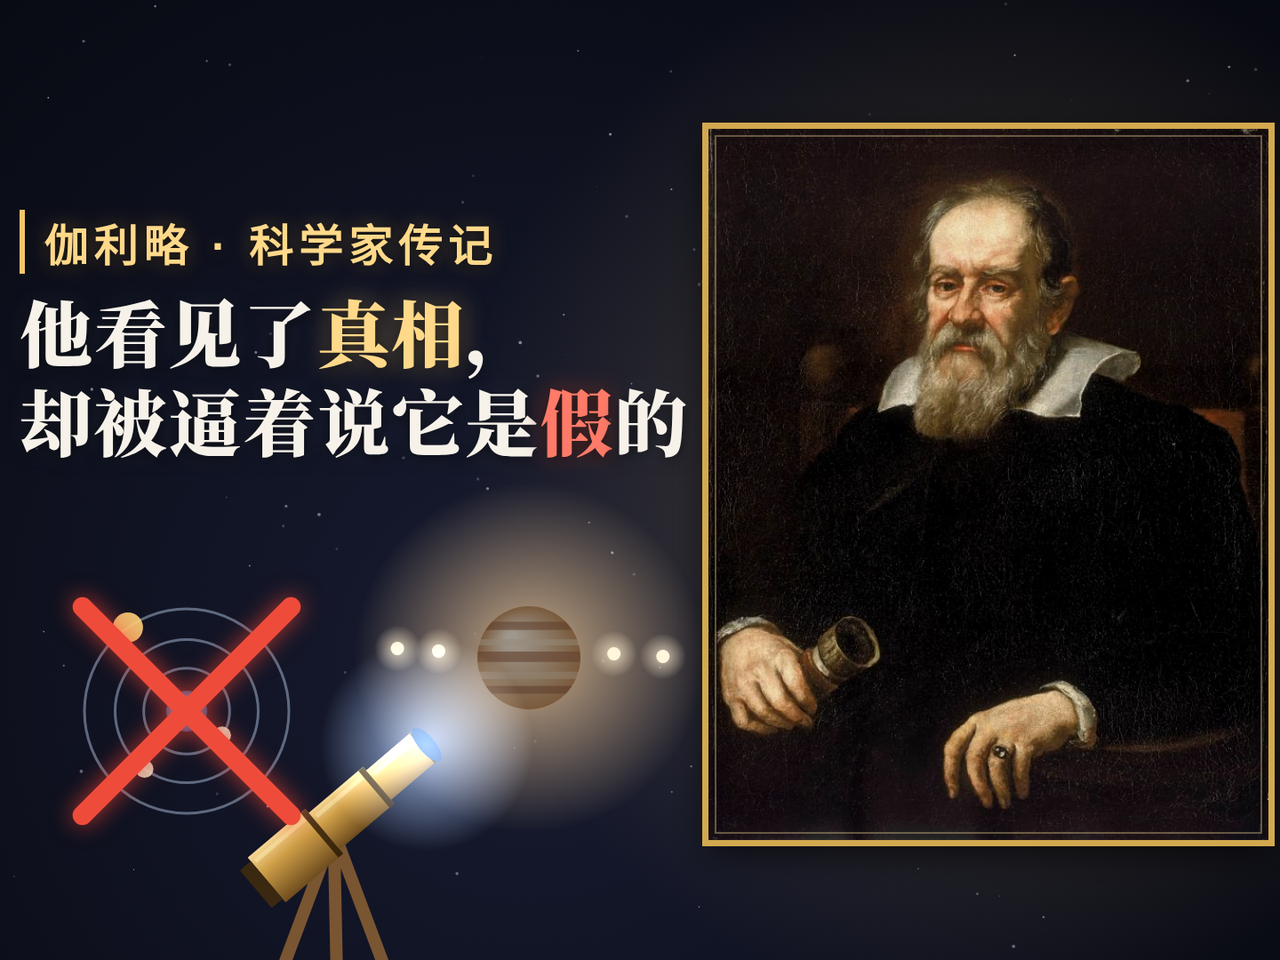
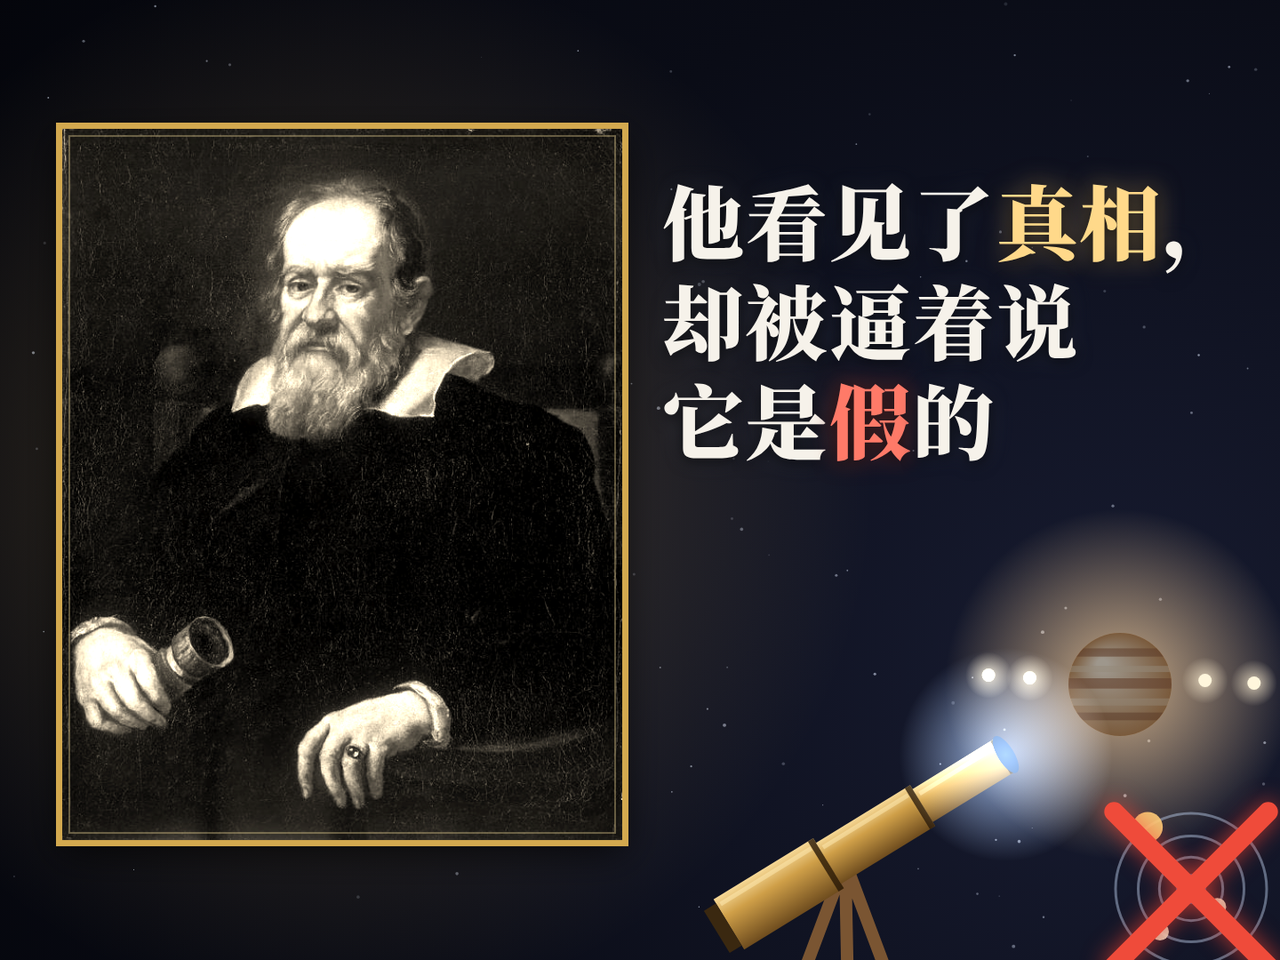
伽利略：新规矩重制（提亮、中文章节卡）、封面改为照片左字右并去标签；SOP 记录
Claude-Session: https://claude.ai/code/session_0132uwgTMMsd29jtkxBXZP3f

diff --git a/ws/kit/video-kit/cover/cover_gl.html b/ws/kit/video-kit/cover/cover_gl.html
@@ -11,31 +11,31 @@ canvas{position:absolute;left:0;top:0}
 .h i{font-style:normal;color:#ff7a68;text-shadow:0 3px 18px rgba(0,0,0,.8),0 0 26px rgba(255,100,80,.5)}
 .w .c{width:1920px;height:1080px}
 .w .kick{left:262px;top:236px}
-.w .h{left:262px;top:322px;font-size:82px}
+.w .h{left:985px;top:190px;font-size:92px}
+.v .br{display:none}
 .v .c{width:1080px;height:1440px}
 .v .kick{left:50%;transform:translateX(-50%);top:150px;white-space:nowrap}
-.v .h{left:0;right:0;top:250px;text-align:center;font-size:92px}
+.v .h{left:0;right:0;top:905px;text-align:center;font-size:92px}
 </style></head><body><div class="c">
 <canvas id="cv"></canvas>
-<div class="kick">伽利略 · 科学家传记</div>
-<div class="h">他看见了<b>真相</b>，<br>却被逼着说它是<i>假</i>的</div>
+<div class="h">他看见了<b>真相</b>，<span class="br"><br></span>却被逼着说<span class="br"><br></span>它是<i>假</i>的</div>
 </div>
 <script>
 var V = location.hash === '#dy'; document.body.className = V ? 'v' : 'w';
 var W = V ? 1080 : 1920, H = V ? 1440 : 1080, cv = document.getElementById('cv'); cv.width = W; cv.height = H;
 var g = cv.getContext('2d'), TAU = Math.PI * 2;
 function rng(s) { return function () { s |= 0; s = s + 0x6D2B79F5 | 0; var t = Math.imul(s ^ s >>> 15, 1 | s); t = t + Math.imul(t ^ t >>> 7, 61 | t) ^ t; return ((t ^ t >>> 14) >>> 0) / 4294967296; }; }
-var JX = V ? 190 : 835, JY = V ? 700 : 740, JR = V ? 54 : 58;                 // Jupiter
-var TX0 = V ? 120 : 540, TY0 = V ? 1330 : 990;                                // telescope eyepiece end
+var JX = V ? 880 : 1500, JY = V ? 1230 : 770, JR = V ? 54 : 58;                 // Jupiter
+var TX0 = V ? 360 : 1060, TY0 = V ? 1420 : 1040;                                // telescope eyepiece end
 // background
 var bg = g.createRadialGradient(JX, JY, 30, JX, JY, Math.max(W, H) * 0.85); bg.addColorStop(0, '#171b30'); bg.addColorStop(0.5, '#0a0c16'); bg.addColorStop(1, '#030409'); g.fillStyle = bg; g.fillRect(0, 0, W, H);
 var Rn = rng(7); for (var i = 0; i < 170; i++) { g.fillStyle = 'rgba(225,235,255,' + (0.12 + Rn() * 0.5).toFixed(2) + ')'; g.beginPath(); g.arc(Rn() * W, Rn() * H, 0.5 + Rn() * 1.5, 0, TAU); g.fill(); }
 var PIMG = new Image();
 function drawPortrait() {
-  var pw = V ? 640 : 630, ph = pw * PIMG.height / PIMG.width, px = V ? 680 : 1352, py = V ? 900 : 545, x0 = px - pw / 2, y0 = py - ph / 2;
+  var pw = V ? 640 : 630, ph = pw * PIMG.height / PIMG.width, px = V ? 540 : 625, py = V ? 457 : 545, x0 = px - pw / 2, y0 = py - ph / 2;
   var wg = g.createRadialGradient(px, py, 40, px, py, pw * 0.95); wg.addColorStop(0, 'rgba(242,198,107,0.22)'); wg.addColorStop(1, 'rgba(242,198,107,0)'); g.fillStyle = wg; g.fillRect(0, 0, W, H);
   g.save(); g.shadowColor = 'rgba(0,0,0,0.75)'; g.shadowBlur = 40; g.shadowOffsetY = 12; g.fillStyle = '#000'; g.fillRect(x0, y0, pw, ph); g.restore();
-  g.save(); g.filter = 'brightness(0.95) saturate(0.92) contrast(1.03)'; g.drawImage(PIMG, x0, y0, pw, ph); g.restore();
+  g.save(); g.filter = 'grayscale(1) sepia(0.55) brightness(1.3) contrast(1.05)'; g.drawImage(PIMG, x0, y0, pw, ph); g.restore();
   g.strokeStyle = '#d3a94f'; g.lineWidth = 7; g.strokeRect(x0 - 3.5, y0 - 3.5, pw + 7, ph + 7);
   g.strokeStyle = 'rgba(255,230,160,0.35)'; g.lineWidth = 2; g.strokeRect(x0 + 8, y0 + 8, pw - 16, ph - 16);
 }
@@ -72,7 +72,7 @@ g.restore();
 var lg = g.createRadialGradient(TX0 + Math.cos(ang) * LEN, TY0 + Math.sin(ang) * LEN, 0, TX0 + Math.cos(ang) * LEN, TY0 + Math.sin(ang) * LEN, 120); lg.addColorStop(0, 'rgba(190,220,255,0.75)'); lg.addColorStop(1, 'rgba(190,220,255,0)');
 g.save(); g.globalCompositeOperation = 'lighter'; g.fillStyle = lg; g.beginPath(); g.arc(TX0 + Math.cos(ang) * LEN, TY0 + Math.sin(ang) * LEN, 120, 0, TAU); g.fill(); g.restore();
 // the old picture: Earth in the centre, everything circling it -- struck through
-var DX = V ? 890 : 450, DY = V ? 1385 : 800, DR = V ? 48 : 115;
+var DX = V ? 170 : 1580, DY = V ? 1230 : 1000, DR = V ? 70 : 85;
 g.save(); g.globalAlpha = 0.9;
 g.strokeStyle = 'rgba(190,210,240,0.5)'; g.lineWidth = 3; [0.42, 0.7, 1.0].forEach(function (k) { g.beginPath(); g.arc(DX, DY, DR * k, 0, TAU); g.stroke(); });
 var eg = g.createRadialGradient(DX - 6, DY - 6, 2, DX, DY, DR * 0.2); eg.addColorStop(0, '#7fc4ff'); eg.addColorStop(1, '#1f5d9c'); g.fillStyle = eg; g.beginPath(); g.arc(DX, DY, DR * 0.2, 0, TAU); g.fill();

diff --git a/ws/gl/engine.js b/ws/gl/engine.js
@@ -143,20 +143,20 @@ function shake(t) {
 // ---------- post: bloom, vignette, grain ----------
 function post(t) {
   O.globalCompositeOperation = 'source-over'; O.globalAlpha = 1; O.filter = 'none';
-  O.drawImage(main, 0, 0);
+  O.filter = 'brightness(1.22) saturate(1.06)'; O.drawImage(main, 0, 0); O.filter = 'none';
   SM.globalCompositeOperation = 'copy'; SM.filter = 'blur(5px) brightness(0.95) contrast(2.4)'; SM.drawImage(main, 0, 0, 480, 270); SM.filter = 'none';
   O.globalCompositeOperation = 'lighter'; O.globalAlpha = 0.34; O.imageSmoothingQuality = 'high'; O.drawImage(small, 0, 0, W, H);
   O.globalAlpha = 0.16; O.filter = 'blur(10px)'; O.drawImage(small, -40, -22, W + 80, H + 45); O.filter = 'none';
   O.globalCompositeOperation = 'source-over'; O.globalAlpha = 1;
   var vg = O.createRadialGradient(W / 2, H * 0.48, H * 0.32, W / 2, H / 2, H * 1.02);
-  vg.addColorStop(0, 'rgba(0,0,0,0)'); vg.addColorStop(1, 'rgba(0,0,0,0.72)'); O.fillStyle = vg; O.fillRect(0, 0, W, H);
+  vg.addColorStop(0, 'rgba(0,0,0,0)'); vg.addColorStop(1, 'rgba(0,0,0,0.3)'); O.fillStyle = vg; O.fillRect(0, 0, W, H);
   O.globalCompositeOperation = 'overlay'; O.globalAlpha = 0.09; O.drawImage(GR[Math.floor(t * 30) % GR.length], 0, 0, W, H);
   O.globalCompositeOperation = 'source-over'; O.globalAlpha = 1;
 }
 
 function background(g, t) {
   var bg = g.createRadialGradient(1180, 600, 50, 1000, 540, 1300);
-  bg.addColorStop(0, '#151d2c'); bg.addColorStop(0.5, '#0c121d'); bg.addColorStop(1, '#05070c'); g.fillStyle = bg; g.fillRect(-60, -60, W + 120, H + 120);
+  bg.addColorStop(0, '#22304a'); bg.addColorStop(0.5, '#152034'); bg.addColorStop(1, '#0b1020'); g.fillStyle = bg; g.fillRect(-60, -60, W + 120, H + 120);
   STARS.forEach(function (s) { var a = s[4] * (0.6 + 0.4 * Math.sin(t * 1.3 + s[3])); g.fillStyle = 'rgba(255,240,215,' + a.toFixed(3) + ')'; g.fillRect(s[0], s[1], s[2], s[2]); });
 }
 function dust(g, t) {          // big soft out-of-focus motes in front: depth of field

diff --git a/ws/gl/tl_gl.py b/ws/gl/tl_gl.py
@@ -80,12 +80,12 @@ chaps, crumbs = [], []
 ci = 0
 for i, sc in enumerate(SC):
     if sc['k'] == 'chap':
-        chaps.append(dict(s=TLs[i]['s'], e=TLs[i]['e'], word=sc['word'], en=EN[sc['word']], line=sc['line'], n='第%s章' % NUM[ci]))
-        crumbs.append(dict(t=TLs[i]['s'], zh='第%s章 · %s' % (NUM[ci], sc['word']), en='CH.%d  %s' % (ci + 1, EN[sc['word']])))
+        chaps.append(dict(s=TLs[i]['s'], e=TLs[i]['e'], word=sc['word'], en='', line=sc['line'], n=''))
+        crumbs.append(dict(t=TLs[i]['s'], zh=sc['word'], en=''))
         ci += 1
 # the name must not show before the narration says it (hero line 5)
-crumbs.insert(0, dict(t=at('hero', 5, 0.8), zh='人物传记 · 伽利略', en='BIOGRAPHY  GALILEO GALILEI 1564–1642'))
-crumbs.append(dict(t=S('recap'), zh='回顾', en='RECAP'))
+crumbs.insert(0, dict(t=at('hero', 5, 0.8), zh='人物传记 · 伽利略', en=''))
+crumbs.append(dict(t=S('recap'), zh='回顾', en=''))
 
 # ---------------- counters / slams / shakes / sounds ----------------
 counters, slams, SHAKE, SFX = [], [], [], []

diff --git a/SOP.md b/SOP.md
@@ -260,6 +260,7 @@ Oct 14, 2026 · @kyo
 
 - **传记系列 #4《他追着一个错误的梦，找到了真理》（开普勒，2026-10-20，约 7 分 41 秒，29 幕）**：复制 nt 管线 → `kp/`、`render_kp/`。结构 = 多面体钩子 → 少年（早产、天花、彗星、月食、图宾根）→ 设计图（1595 灵感、五种正多面体嵌套、差约 1/10、怪数据）→ 第谷（假鼻、汶岛、1 角分、互相提防、只给火星、1601 去世）→ 火星（正圆调七十遍、8 角分≈满月 1/4、第谷误差 2′、蛋形偏另一边、椭圆、第一二定律、1609）→ 梦（1611 雪花、蜂巢石榴籽、开普勒猜想；《梦》登月）→ 母亲（1615 苦药指控、《梦》被牵连、辩护、1620 被捕 14 个月、不认罪、1621 获释半年后去世）→ 和谐（天体音乐、1618 第三定律，对数坐标八大行星一条直线）→ 晚年（三十年战争、丧妻丧子、欠薪、1627 星表、1630 雨中骑马讨薪、11 月 15 日去世、墓毁、墓志铭）→ 接到牛顿（12 年后早产儿、1687 一种力解释三定律；设计图错了，规律留下）→ 回顾 → 来源 9 条。要点：①查证发现开普勒终生没放弃多面体，主线改成“为了证明错误的梦，找到了真规律”，封面钩子不写“打碎自己最爱的宇宙”；②配乐四段：Nightfall（设计图）→ Entropy 按小节重剪（第谷=前奏尾+律动A，火星=律动B+高潮，梦=过门+中段+中段循环，不要用 102–111 小节的空白尾声）→ Awakening 安静前段（母亲、晚年，去世处退后一半）→ 最后一幕接 Awakening 高潮尾，落在“全部解释了出来”；③椭圆画面太阳必须放在“近日点那一侧”的焦点上，否则开普勒方程算出的“近快远慢”会画反；④多面体用真实内切/外接比例嵌套，远边变暗做深度；⑤封面：金色嵌套多面体 + 穿过它的发光椭圆（后半圈淡、前半圈亮），`cover/cover_kp.html`。代码见工具包 `kepler/`、`render_kp/`。
 - **传记系列 #5《他看见了真相，却被逼着说它是假的》（伽利略，2026-10-21，约 8 分 20 秒，30 个条目：22 幕 + 6 章节卡 + 回顾 + 来源，v2 引擎原生制作）**：复制 nt2 管线 → `gl/`（`gl/parts/e_gl0–4.js` 是人物道具和各幕画面，`script_gl.py` 脚本、`tl_gl.py` 时间表、`cues_gl.py` 音效节点、`make_bed_gl.py` 配乐、`audio.py` 混音、`render.sh` 渲染）。开工问答只定了一条：沿用前几期做法，用新渲染和音效；主线“证据对抗权威”。结构 = 1633 跪着念认罪书的钩子 → 少年（琴师父亲、八度=四倍重量、医学改数学、据说的吊灯）→ 落体（绑石头的矛盾、斜面 1/3/5/7）→ 望远镜（磨镜片 3→20 倍、月亮的山和坑、银河十倍、木星第四颗卫星、《星际信使》、美第奇、开普勒公开信、金星盈亏）→ 审判（1616 警告、《对话》、他也错了：潮汐和正圆、1633 受审、“它还是在动”1757 才出现）→ 软禁（阿切特里、玛丽亚·切莱斯特的信、失明、《两门新科学》在莱顿印出、抛物线）→ 接力（1642 去世、1737 迁葬、1992 承认有错、同年牛顿出生、惯性和大炮、1971 月面锤子与羽毛）→ 回顾 → 来源 10 条。要点：①查证优先于故事：斜塔扔球只有后人讲述（字幕写“多半是后人加的”）；“可它还是在动”最早 1757（写“流传”并说明没有记录）；潮汐证据是错的、行星轨道仍用正圆（写进“他也错了”）；金星只说“旧模型过不了这一关”（第谷体系仍可容纳）；女儿信件数量不写；牛顿生日只写“圣诞节”；②配乐四段：Nightfall（钩子、少年、落体）→ Entropy 按 1.6 秒小节重剪（望远镜篇，高潮正好落在 200.0 秒“第四颗卫星”）→ Awakening 安静前段（审判、软禁、失明）→ Awakening 高潮尾（最后一个强拍对到锤子和羽毛落地 477.33 秒，余音给月亮）；③音效节点按“视觉动作 = 一个声音”：印章/叉号用 hit，三条禁令用三下 hit_cane（时间提前 0.24 秒），计数器用 count_tick；失明和去世处只留 sub_pad/downer，不放重击；④画面规矩补充：旁白占 x 5–55、y 8–21 单位，计数器在右上 x≥75，画面主体 y 22–50，底部胶囊必须避开时间轴（x 29–71、y 52–55）；高亮度填充（白纸、宇航服、穹顶、玛丽亚的头巾）会被泛光吹成白块，颜色要压暗到 60–70% 亮度或降透明度；人物名字在字幕说出前不上屏（第一个面包屑延到名字那句之后）；⑤落地对拍：先在时间表里算出事件的绝对秒数（at("s21",5)），再让画面动画和音效、配乐三处都挂在这个数上，锤子和羽毛下落按 1.5 秒（略慢于真实 1.4 秒）；⑥分工：Opus 做脚本、画面设计与审查、音效节点和混音脚本；Sonnet 做渲染、封装、封面出图、SOP 和推送。封面：黄铜望远镜对着木星和四颗卫星，左下一张被画了红叉的“地球是中心”旧图，钩子“他看见了真相，却被逼着说它是假的”（`cover/cover_gl.html`，`#dy` 出竖版；旧图离画面左边要 ≥ 280px，4:3 裁切才不会切到）。
+  - **2026-10-26 新规矩重制**：引擎提亮（底色 #22304a→#152034→#0b1020、暗角 0.3、post brightness(1.22) saturate(1.06)）；章节卡/面包屑只留中文章节名；片尾本来就无预告。封面按新规改为照片在左、字在右（横版）/照片在上（竖版），去掉“科学家传记”标签，照片灰度+暖棕调。**用户对这张封面的明确偏好：照片不羽化（边缘锐利）、要大、加金色双线框**——与 SOP “椭圆渐隐”不同时，以用户对该片的明确要求为准；之后传记封面默认可先出“锐利边+金框”版再问是否要渐隐。
 
 - **课件改编科普《一个简单的公式，却无法预测》（逻辑斯蒂映射与混沌，2026-10-23，约 4 分 56 秒，16 幕，v2 引擎 + vibe 配乐）**：用户发来大学课程《プログラミング応用(B)》的课件截图，说“生成一个科普视频”。grill 四问定了：B 站科普（不是课程讲解、不是 mystudy）、钩子“两个几乎一样的起点”、结尾“费根鲍姆常数 + 天气”、其余我定。结构 = 标题卡（第 0 帧就在）→ 钩子（a=3.9，0.4 与 0.4000001 约第 25 步分开）→ 公式含义（繁殖 × 拥挤，种群点阵）→ 蛛网图画法（课件里的图）→ a=0.8 归零 → a=2、2.8 停在不动点 → 为什么停住（交点处“陡度”，偏差 ×0.8 / ×1.3 条形）→ 周期 2 → 周期 4、8……3.57 → 混沌 a=3.7 → 停顿小节“都画在一张图上呢？”→ drop 砸在分岔图 → 为什么算不准（a=4 平均每步翻倍，对数梯子，15 位小数，电脑约 16 位）→ 4.669（相邻分叉之比 4.751、4.656、4.668，换成正弦映射也一样）→ 天气（1961 年 0.506127→0.506，预报超过一两周难准）→ 结尾 → 回顾“停/跳/分/乱” → 来源。做法要点：①所有曲线、蛛网图、分岔图都在页面里真算（分岔图启动时预计算成离屏图）；②蛛网图每一步的时间排在 `tl_lg.py` 的 WEBS 表里，画面和滴答音效共用一张表；③引擎去掉开头淡入（`fade` 只管结尾），标题卡第 0 帧可见；④“陡度”是导数绝对值的通俗说法，核对表标“简化”；天气曲线标“示意”；⑤不写人名（梅、费根鲍姆、洛伦兹），4.669 的英文小字里保留 δ 名称。封面 `cover/cover_lg.html`：真算的分岔“树”（叉线亮、混沌区金色光雾），上白字“一个简单的公式，”、下金字“却无法预测”，4:3 裁切时树的右缘要收在 1600px 内。代码见 `ws/lg/`。
 
